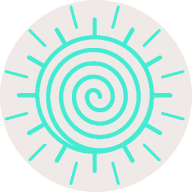
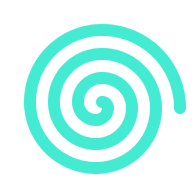
wip

diff --git a/src/routes/+page.svelte b/src/routes/+page.svelte
@@ -21,7 +21,6 @@
 	let events = $state(data.events);
 	let pagination = $state(data.pagination);
 
-	let searchTerm = $state(data.pagination.searchTerm ?? '');
 	let searchInputElement = $state<HTMLInputElement | null>(null);
 	let isLoadingEvents = $state(false);
 
@@ -119,7 +118,8 @@
 			<PopOver contentClass="card card-border shadow-lg bg-base-100 z-10">
 				{#snippet trigger()}
 					<button class="btn btn-circle bg-base-100">
-						<img src="/logo.svg" alt="Logo" class="size-16" />
+						<i class="icon-[ph--spiral] text-primary size-7.5"></i>
+						<!-- <img src="/logo.svg" alt="Logo" class="size-16" /> -->
 					</button>
 				{/snippet}
 				{#snippet content()}

diff --git a/src/app.html b/src/app.html
@@ -7,7 +7,7 @@
 	<meta name="viewport" content="width=device-width, initial-scale=1" />
 
 	<link rel="apple-touch-icon" href="/pwa-192x192.png" sizes="180x180">
-	<link rel="mask-icon" href="/logo.svg" color="#efeae7">
+	<link rel="mask-icon" href="/logo.svg" color="#ffffff">
 	<meta name="theme-color" content="#efeae7">
 	%sveltekit.head%
 </head>

diff --git a/src/app.css b/src/app.css
@@ -9,6 +9,8 @@
 }
 
 @theme {
+	/* primary color in hex: #43ebd3 */
+
 	/* from daisyUI internals, color for input borders */
 	--input-color: color-mix(in oklab, var(--color-base-content) 20%, #0000);
 
